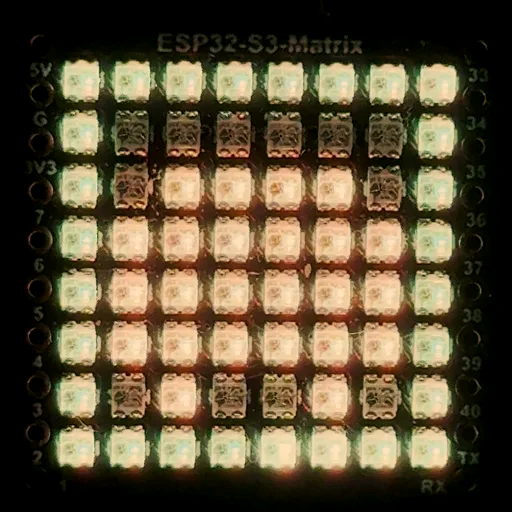
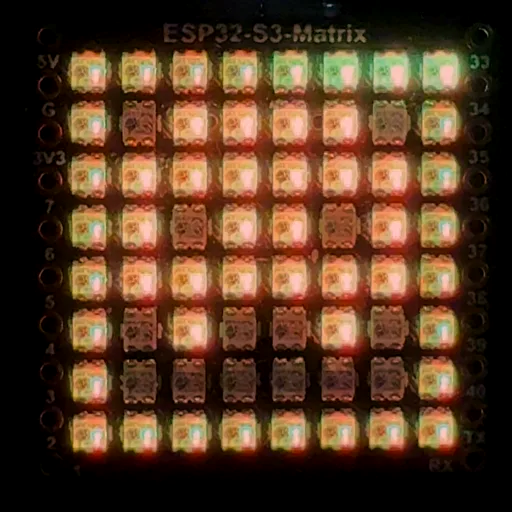
Add "on real glass" hardware gallery: 47 live-board clips + flip-to-twin
Films every animation in the library on the physical ESP32-S3 panel and
wires them into a new gallery on the showcase landing page. Each tile
plays the real-board clip (lazy-loaded, poster-first) and flips to its
live browser twin on hover, the same drive() render path as the hero, so
"screen == glass, same frames" is provable across the whole library, not
just the one claudesweep twin.

- site/assets/: 47 looping 512x512 H.264 clips + WebP posters, each
  auto-cropped to the board, graded per palette, seamless crossfade loop.
  Replaces board-sweep.mp4 with a cleaner bare-panel take.
- site/index.html: #gallery section, .hw-grid/.hw-tile with a 3D flip,
  IntersectionObserver lazy video, browser-twin canvas mounted on hover.
  clock has no browser sim, so it stays video-only (graceful no-flip).
- .gitignore: exclude raw LiveBoardClips/ source footage.

Verified with Playwright: 47 tiles, lazy load/play, flip renders the live
twin, responsive to mobile, 0 console errors. Repo guards pass.

diff --git a/site/index.html b/site/index.html
@@ -174,6 +174,39 @@
     .twin-cell{max-width:280px;}
   }
 
+  /* ── hardware gallery: the whole library, on real glass ──── */
+  .hw-hint{font-family:var(--mono); font-size:.72rem; letter-spacing:.04em; color:var(--faint); margin-top:20px;}
+  .hw-hint b{color:var(--dim); font-weight:500;}
+  .hw-hint .g{color:var(--emotion);} .hw-hint .s{color:var(--info);}
+  .hw-grid{display:grid; grid-template-columns:repeat(6,1fr); gap:12px; margin-top:26px;}
+  .hw-tile{position:relative; aspect-ratio:1/1; perspective:820px; cursor:pointer;
+    border:0; padding:0; background:none; transition:transform .18s; -webkit-tap-highlight-color:transparent;}
+  .hw-tile:hover{transform:translateY(-3px);}
+  .hw-inner{position:absolute; inset:0; transform-style:preserve-3d; transition:transform .55s cubic-bezier(.4,.08,.2,1);}
+  .hw-face{position:absolute; inset:0; backface-visibility:hidden; -webkit-backface-visibility:hidden;
+    border-radius:11px; overflow:hidden; border:1px solid var(--hair); background:var(--panel-sub);
+    box-shadow:inset 0 0 0 1px rgba(255,255,255,.03), inset 0 6px 20px rgba(0,0,0,.55); transition:border-color .18s;}
+  .hw-tile:hover .hw-face{border-color:#33333f;}
+  .hw-back{transform:rotateY(180deg);}
+  .hw-face video, .hw-face canvas{width:100%; height:100%; object-fit:cover; display:block; background:var(--panel-sub);}
+  .hw-tag{position:absolute; top:7px; left:8px; z-index:3; font-family:var(--mono); font-size:.5rem;
+    letter-spacing:.14em; text-transform:uppercase; padding:2px 5px; border-radius:4px;
+    background:rgba(6,6,8,.62); backdrop-filter:blur(2px);}
+  .hw-front .hw-tag{color:var(--emotion);} .hw-back .hw-tag{color:var(--info);}
+  .hw-label{position:absolute; left:0; right:0; bottom:0; z-index:4; pointer-events:none;
+    font-family:var(--mono); font-size:.64rem; letter-spacing:.02em; color:var(--text);
+    padding:16px 8px 8px; text-align:center;
+    background:linear-gradient(transparent, rgba(5,5,7,.86)); opacity:0; transition:opacity .16s;}
+  .hw-tile:hover .hw-label, .hw-tile.flipped .hw-label{opacity:1;}
+  /* hover flips on pointer devices; tap toggles .flipped on touch */
+  @media(hover:hover){ .hw-tile:hover .hw-inner{transform:rotateY(180deg);} }
+  .hw-tile.flipped .hw-inner{transform:rotateY(180deg);}
+  .hw-tile.noflip{cursor:default;} .hw-tile.noflip:hover .hw-inner{transform:none;}
+  .hw-tile:focus-visible{outline:2px solid var(--info); outline-offset:3px; border-radius:12px;}
+  @media(max-width:860px){ .hw-grid{grid-template-columns:repeat(4,1fr);} }
+  @media(max-width:560px){ .hw-grid{grid-template-columns:repeat(3,1fr); gap:9px;} }
+  @media(prefers-reduced-motion:reduce){ .hw-inner{transition:none;} .hw-tile:hover{transform:none;} }
+
   /* ── install ─────────────────────────────────────────────── */
   .steps{display:grid; grid-template-columns:repeat(3,1fr); gap:18px; margin-top:42px;}
   .step{border:1px solid var(--hair); border-radius:16px; padding:24px;}
@@ -218,6 +251,7 @@
       <a href="#playground">Try it</a>
       <a href="#protocol">The idea</a>
       <a href="#hardware">The board</a>
+      <a href="#gallery">Gallery</a>
       <a href="#install">Install</a>
       <a class="ghub" href="https://github.com/srfinch17/claude-expression-studio">GitHub ↗</a>
     </nav>
@@ -405,6 +439,19 @@
           <a class="btn btn-ghost" href="https://github.com/srfinch17/peckworks-esp32s3matrix">Board firmware repo ↗</a>
         </div>
       </div>
+    </div>
+  </section>
+
+  <div class="wrap"><div class="divider"></div></div>
+
+  <!-- ─────────────────────── HARDWARE GALLERY ──────────────── -->
+  <section id="gallery">
+    <div class="wrap">
+      <span class="eyebrow">No renders, no mockups</span>
+      <h2>The whole library, on real glass.</h2>
+      <p class="section-lead">Every one of these is the physical ESP32-S3 panel on a desk, filmed. One clip per animation. Hover any tile to flip it to the in-browser version, same frames, same code, glass and screen back to back.</p>
+      <p class="hw-hint">Hover to flip · <b class="g">glass</b> is the real board, <b class="s">screen</b> is this page rendering the same frames.</p>
+      <div class="hw-grid" id="hwGrid"></div>
     </div>
   </section>
 
@@ -704,6 +751,82 @@ async function buildShowcase() {
   }
 }
 
+// ── Hardware gallery: every animation filmed on the real board, each tile
+// flippable to its live browser twin (same drive() path as the hero/showcase).
+// [assetBasename, sim/expression name, label]. board-sweep → claudesweep. ──
+const GALLERY = [
+  ['board-sweep','claudesweep','working sweep'], ['claude-idle','claude-idle','claude, idle'],
+  ['galaxy','galaxy','galaxy'], ['aurora','aurora','aurora'], ['starfield','starfield','starfield'],
+  ['warp-portal','warp-portal','warp portal'], ['black-hole','black-hole','black hole'],
+  ['sun','sun','sun'], ['ringed-planet','ringed-planet','saturn'], ['jupiter','jupiter','jupiter'],
+  ['meteor','meteor','meteor'], ['atom','atom','atom'], ['fire','fire','fire'],
+  ['volcano','volcano','volcano'], ['mushroom-cloud','mushroom-cloud','mushroom cloud'],
+  ['lightning','lightning','lightning'], ['frostbite','frostbite','frostbite'], ['snow','snow','snow'],
+  ['wave','wave','wave'], ['breathe','breathe','breathe'], ['jellyfish','jellyfish','jellyfish'],
+  ['goldfish','goldfish','goldfish'], ['butterfly','butterfly','butterfly'], ['ufo','ufo','ufo'],
+  ['pacman','pacman','pac-man'], ['rainbow','rainbow','rainbow'], ['fireworks','fireworks','fireworks'],
+  ['fireworks2','fireworks2','fireworks ii'], ['confetti','confetti','confetti'],
+  ['dancefloor','dancefloor','dancefloor'], ['soundwave','soundwave','soundwave'],
+  ['lava-lamp','lava-lamp','lava lamp'], ['spiral','spiral','spiral'], ['tornado','tornado','tornado'],
+  ['bloom','bloom','bloom'], ['crystal-ball','crystal-ball','crystal ball'], ['potion','potion','potion'],
+  ['newtons-cradle','newtons-cradle',"newton's cradle"], ['matrix_rain','matrix_rain','matrix rain'],
+  ['wink','wink','wink'], ['idea','idea','idea'], ['hourglass','hourglass','hourglass'],
+  ['task-complete','task-complete','task complete'], ['ask-question','ask-question','question'],
+  ['warrocket','warrocket','war rocket'], ['dusk','dusk','dusk'], ['clock','clock','clock'],
+];
+function buildGallery() {
+  const grid = document.getElementById('hwGrid');
+  if (!grid) return;
+  // Lazy: only load + play videos while they're near the viewport.
+  const io = ('IntersectionObserver' in window) ? new IntersectionObserver((entries) => {
+    for (const e of entries) {
+      const v = e.target.querySelector('video'); if (!v) continue;
+      if (e.isIntersecting) { if (!v.src) v.src = v.dataset.src; if (!REDUCE) v.play().catch(() => {}); }
+      else v.pause();
+    }
+  }, { rootMargin: '150px 0px' }) : null;
+
+  for (const [asset, sim, label] of GALLERY) {
+    const drivable = !!(FIRMWARE_SIMS[sim] || LIB[sim]);
+    const tile = document.createElement('button');
+    tile.type = 'button';
+    tile.className = 'hw-tile' + (drivable ? '' : ' noflip');
+    tile.setAttribute('aria-label', drivable ? label + ', flip between the real board and the browser render' : label + ', real board clip');
+
+    const inner = document.createElement('div'); inner.className = 'hw-inner';
+    const front = document.createElement('div'); front.className = 'hw-face hw-front';
+    const vid = document.createElement('video');
+    vid.loop = true; vid.muted = true; vid.playsInline = true; vid.preload = 'none';
+    vid.setAttribute('playsinline', ''); vid.setAttribute('aria-hidden', 'true');
+    vid.poster = `./assets/${asset}-poster.webp`;
+    vid.dataset.src = `./assets/${asset}.mp4`;
+    front.appendChild(vid);
+    front.insertAdjacentHTML('beforeend', '<span class="hw-tag">glass</span>');
+    inner.appendChild(front);
+
+    if (drivable) {
+      const back = document.createElement('div'); back.className = 'hw-face hw-back';
+      back.insertAdjacentHTML('beforeend', '<span class="hw-tag">screen</span>');
+      inner.appendChild(back);
+      let mounted = false;
+      const mount = () => {
+        if (mounted) return; mounted = true;
+        const cv = document.createElement('canvas'); cv.width = 256; cv.height = 256;
+        back.insertBefore(cv, back.firstChild);
+        const p = mk(cv, null);
+        if (drive(p, sim) && REDUCE) p.draw(0);
+      };
+      tile.addEventListener('pointerenter', mount);
+      tile.addEventListener('focus', mount);
+      tile.addEventListener('click', () => { mount(); tile.classList.toggle('flipped'); });
+    }
+    const lab = document.createElement('span'); lab.className = 'hw-label'; lab.textContent = label;
+    tile.appendChild(inner); tile.appendChild(lab);
+    grid.appendChild(tile);
+    if (io) io.observe(tile); else { vid.src = vid.dataset.src; if (!REDUCE) vid.play().catch(() => {}); }
+  }
+}
+
 // ── Single shared animation loop ──
 // The loop reads `panels` each frame, so the async showcase tiles join in as
 // soon as buildShowcase() pushes them, no restart needed.
@@ -720,7 +843,7 @@ if (REDUCE) {
 
 // Beats and the showcase both draw from the saved-expression library, wire them
 // once it has loaded (the shared loop picks up their panels automatically).
-loadLibrary().then(() => { wireBeats(); wirePlayground(); buildShowcase(); });
+loadLibrary().then(() => { wireBeats(); wirePlayground(); buildShowcase(); buildGallery(); });
 </script>
 </body>
 </html>